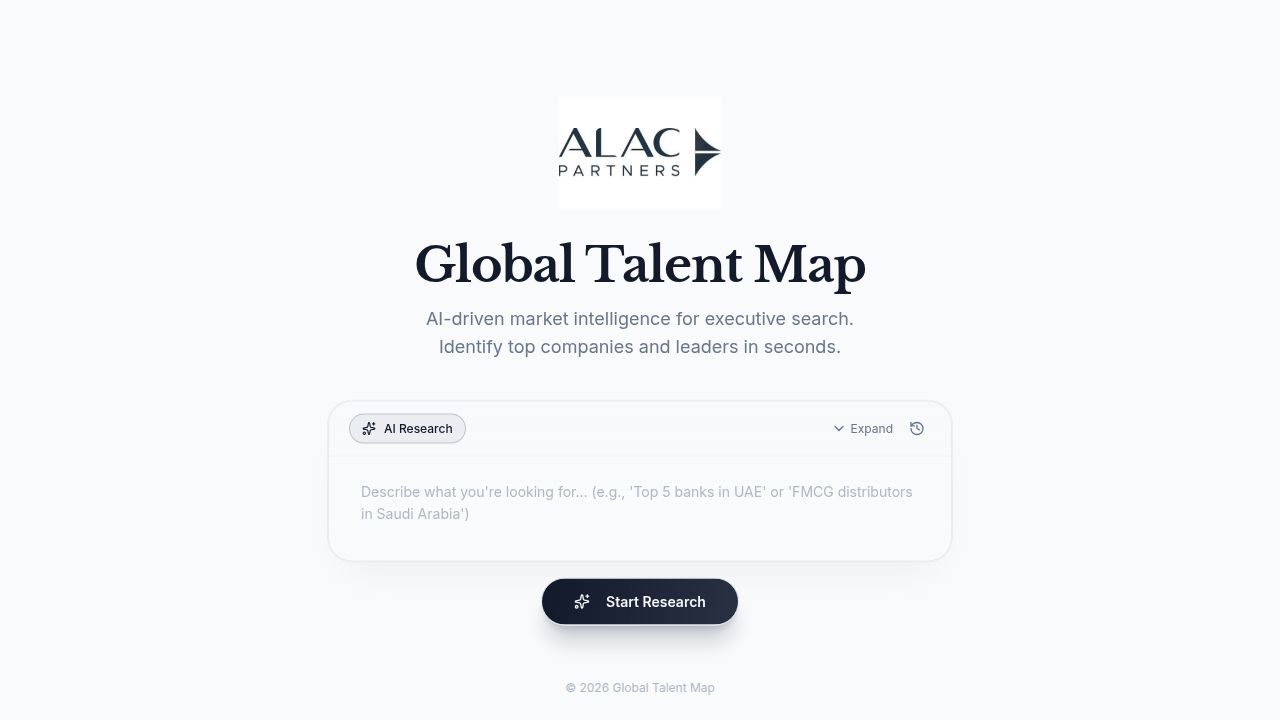
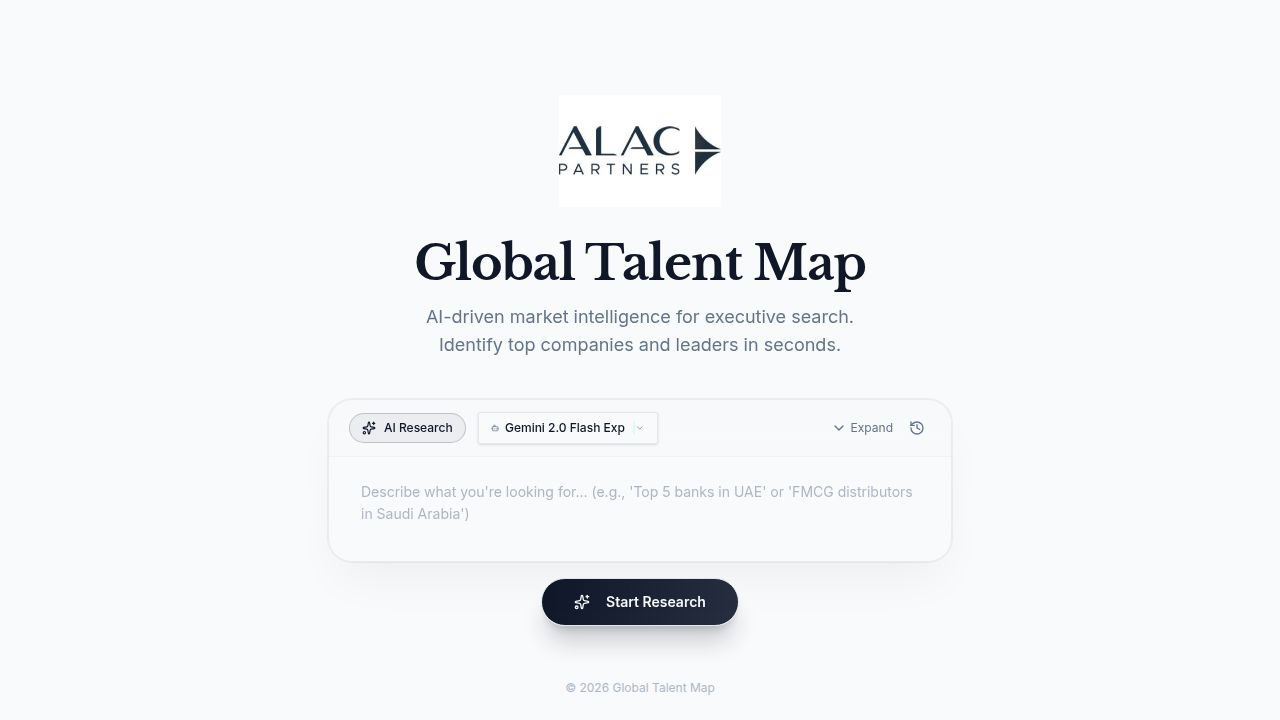
Add ability to select AI model for company data enrichment
Integrates a model selection dropdown into the UI and updates the backend API endpoint to accept and utilize the chosen LLM model for company data enrichment.

Replit-Commit-Author: Agent
Replit-Commit-Session-Id: 928cdb99-c6f2-4ec0-9a63-45503a730fe4
Replit-Commit-Checkpoint-Type: full_checkpoint
Replit-Commit-Event-Id: bfe964f2-9286-482b-b10e-f24def3a3ea9
Replit-Commit-Screenshot-Url: https://storage.googleapis.com/screenshot-production-us-central1/9fca7580-c44b-4255-9049-a846123d9e2d/928cdb99-c6f2-4ec0-9a63-45503a730fe4/BeK3NRC
Replit-Helium-Checkpoint-Created: true

diff --git a/client/src/components/panels/RightPanel.tsx b/client/src/components/panels/RightPanel.tsx
@@ -6,9 +6,28 @@ import { Input } from '@/components/ui/input';
 import { Badge } from '@/components/ui/badge';
 import { Separator } from '@/components/ui/separator';
 import { Textarea } from '@/components/ui/textarea';
-import { MapPin, DollarSign, Users, X, Edit2, Plus, Trash2, ArrowLeft, Building2, Briefcase, GraduationCap, Banknote, FileText, Loader2, CheckCircle2, Sparkles, Mail, Phone, Linkedin, ChevronLeft, ChevronRight, Globe, Target, TrendingUp, AlertCircle, ShieldCheck, Search } from 'lucide-react';
+import { Select, SelectContent, SelectItem, SelectTrigger, SelectValue } from '@/components/ui/select';
+import { MapPin, DollarSign, Users, X, Edit2, Plus, Trash2, ArrowLeft, Building2, Briefcase, GraduationCap, Banknote, FileText, Loader2, CheckCircle2, Sparkles, Mail, Phone, Linkedin, ChevronLeft, ChevronRight, Globe, Target, TrendingUp, AlertCircle, ShieldCheck, Search, Bot } from 'lucide-react';
 import { useState, useEffect, useCallback } from 'react';
 import { toast } from 'sonner';
+
+const LLM_MODELS = [
+  // Free models first
+  { id: 'google/gemini-2.0-flash-exp:free', name: 'Gemini 2.0 Flash', free: true },
+  { id: 'google/gemma-3-27b-it:free', name: 'Gemma 3 27B', free: true },
+  { id: 'meta-llama/llama-3.3-70b-instruct:free', name: 'Llama 3.3 70B', free: true },
+  { id: 'deepseek/deepseek-r1:free', name: 'DeepSeek R1', free: true },
+  { id: 'deepseek/deepseek-chat-v3-0324:free', name: 'DeepSeek V3', free: true },
+  { id: 'qwen/qwen3-235b-a22b:free', name: 'Qwen 3 235B', free: true },
+  { id: 'mistralai/mistral-small-3.1-24b-instruct:free', name: 'Mistral Small', free: true },
+  // Paid models
+  { id: 'anthropic/claude-sonnet-4', name: 'Claude Sonnet 4', free: false },
+  { id: 'anthropic/claude-3.5-haiku', name: 'Claude 3.5 Haiku', free: false },
+  { id: 'openai/gpt-4o', name: 'GPT-4o', free: false },
+  { id: 'openai/gpt-4o-mini', name: 'GPT-4o Mini', free: false },
+  { id: 'google/gemini-2.5-flash-preview', name: 'Gemini 2.5 Flash', free: false },
+  { id: 'deepseek/deepseek-chat', name: 'DeepSeek Chat', free: false },
+];
 
 const EditableField = ({ 
   value, 
@@ -117,6 +136,7 @@ export default function RightPanel({ width = 384, isOpen = true, onToggle }: Rig
   const [isLoadingCompanyNotes, setIsLoadingCompanyNotes] = useState(false);
   const [companyNotesError, setCompanyNotesError] = useState<string | null>(null);
   const [isEnrichingWithBing, setIsEnrichingWithBing] = useState(false);
+  const [enrichmentModel, setEnrichmentModel] = useState('google/gemini-2.0-flash-exp:free');
 
   const company = companies.find(c => c.id === selectedCompanyId);
   const companyExecutives = executives.filter(e => e.company_id === selectedCompanyId);
@@ -263,14 +283,16 @@ export default function RightPanel({ width = 384, isOpen = true, onToggle }: Rig
     }
   };
 
-  const handleEnrichWithDeepSeek = async (companyData: typeof company) => {
+  const handleEnrichWithAI = async (companyData: typeof company) => {
     if (!companyData) return;
     setIsEnrichingWithBing(true);
+    const modelName = LLM_MODELS.find(m => m.id === enrichmentModel)?.name || enrichmentModel;
+    toast.info(`Enriching with ${modelName}...`);
     try {
       const response = await fetch(`/api/companies/${companyData.id}/enrich-deepseek`, {
         method: 'POST',
         headers: { 'Content-Type': 'application/json' },
-        body: JSON.stringify({ companyName: companyData.name, country: companyData.hq_country })
+        body: JSON.stringify({ companyName: companyData.name, country: companyData.hq_country, model: enrichmentModel })
       });
       
       if (!response.ok) {
@@ -293,7 +315,7 @@ export default function RightPanel({ width = 384, isOpen = true, onToggle }: Rig
         updateCompanyLocal(companyData.id, { revenueDrivers: enrichedData.revenueDrivers });
       }
       
-      toast.success('Company enriched with DeepSeek AI');
+      toast.success(`Company enriched with ${modelName}`);
     } catch (error: any) {
       console.error('Error enriching with DeepSeek:', error);
       toast.error(error.message || 'Failed to enrich with DeepSeek');
@@ -536,19 +558,39 @@ export default function RightPanel({ width = 384, isOpen = true, onToggle }: Rig
                 <h3 className="text-sm font-semibold text-muted-foreground uppercase tracking-wide">
                   Company Summary
                 </h3>
-                <Button 
-                  variant="outline" 
-                  size="sm" 
-                  onClick={() => handleEnrichWithDeepSeek(company)}
-                  disabled={isEnrichingWithBing}
-                  className="h-6 text-xs"
-                >
-                  {isEnrichingWithBing ? (
-                    <><Loader2 className="h-3 w-3 mr-1 animate-spin" /> Enriching...</>
-                  ) : (
-                    <><Sparkles className="h-3 w-3 mr-1" /> Enrich with AI</>
-                  )}
-                </Button>
+                <div className="flex items-center gap-2">
+                  <Select value={enrichmentModel} onValueChange={setEnrichmentModel}>
+                    <SelectTrigger className="w-[140px] h-6 text-[10px] bg-background" data-testid="select-enrichment-model">
+                      <Bot className="h-3 w-3 mr-1 text-muted-foreground" />
+                      <SelectValue placeholder="Model" />
+                    </SelectTrigger>
+                    <SelectContent className="max-h-[250px]">
+                      {LLM_MODELS.map((model) => (
+                        <SelectItem key={model.id} value={model.id} className="text-xs">
+                          <div className="flex items-center gap-1.5">
+                            <span>{model.name}</span>
+                            {model.free && (
+                              <span className="px-1 py-0.5 bg-green-100 text-green-700 dark:bg-green-900/30 dark:text-green-400 text-[8px] font-semibold rounded">FREE</span>
+                            )}
+                          </div>
+                        </SelectItem>
+                      ))}
+                    </SelectContent>
+                  </Select>
+                  <Button 
+                    variant="outline" 
+                    size="sm" 
+                    onClick={() => handleEnrichWithAI(company)}
+                    disabled={isEnrichingWithBing}
+                    className="h-6 text-xs"
+                  >
+                    {isEnrichingWithBing ? (
+                      <><Loader2 className="h-3 w-3 mr-1 animate-spin" /> Enriching...</>
+                    ) : (
+                      <><Sparkles className="h-3 w-3 mr-1" /> Enrich</>
+                    )}
+                  </Button>
+                </div>
               </div>
               <EditableField
                 value={company.summary || ''}

diff --git a/server/routes.ts b/server/routes.ts
@@ -403,7 +403,7 @@ export async function registerRoutes(
   app.post("/api/companies/:id/enrich-deepseek", async (req, res) => {
     try {
       const id = parseInt(String(req.params.id));
-      const { companyName, country } = req.body;
+      const { companyName, country, model } = req.body;
       
       if (!companyName) {
         return res.status(400).json({ error: "Company name is required" });
@@ -417,7 +417,8 @@ export async function registerRoutes(
         });
       }
 
-      console.log(`[DeepSeek Enrich] Researching company: ${companyName} (${country || 'Unknown'})`);
+      const selectedModel = model || 'google/gemini-2.0-flash-exp:free';
+      console.log(`[AI Enrich] Researching company: ${companyName} (${country || 'Unknown'}) with model: ${selectedModel}`);
 
       const aiResponse = await fetch('https://openrouter.ai/api/v1/chat/completions', {
         method: 'POST',
@@ -428,7 +429,7 @@ export async function registerRoutes(
           'X-Title': 'Global Talent Map'
         },
         body: JSON.stringify({
-          model: 'deepseek/deepseek-chat',
+          model: selectedModel,
           messages: [
             {
               role: 'system',
